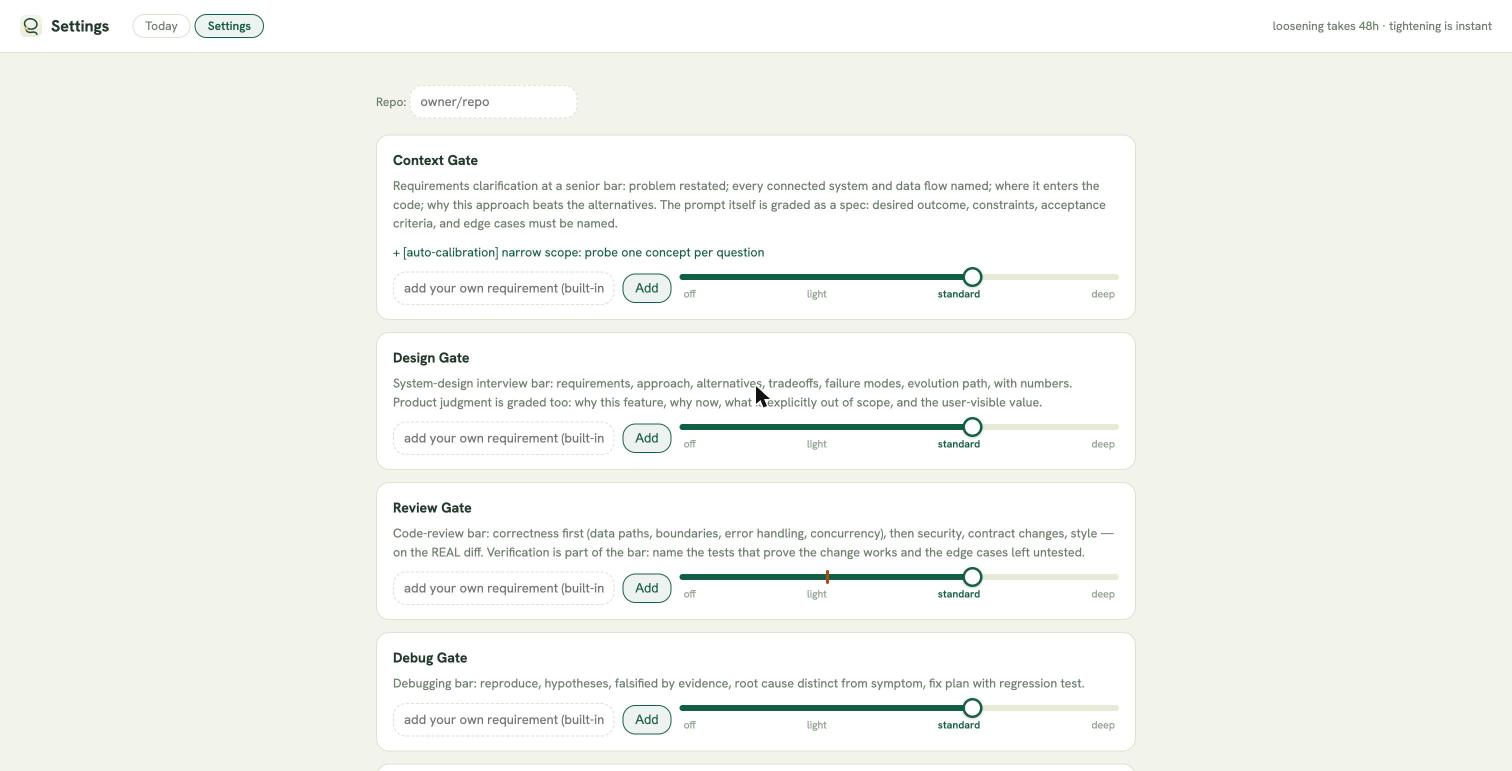
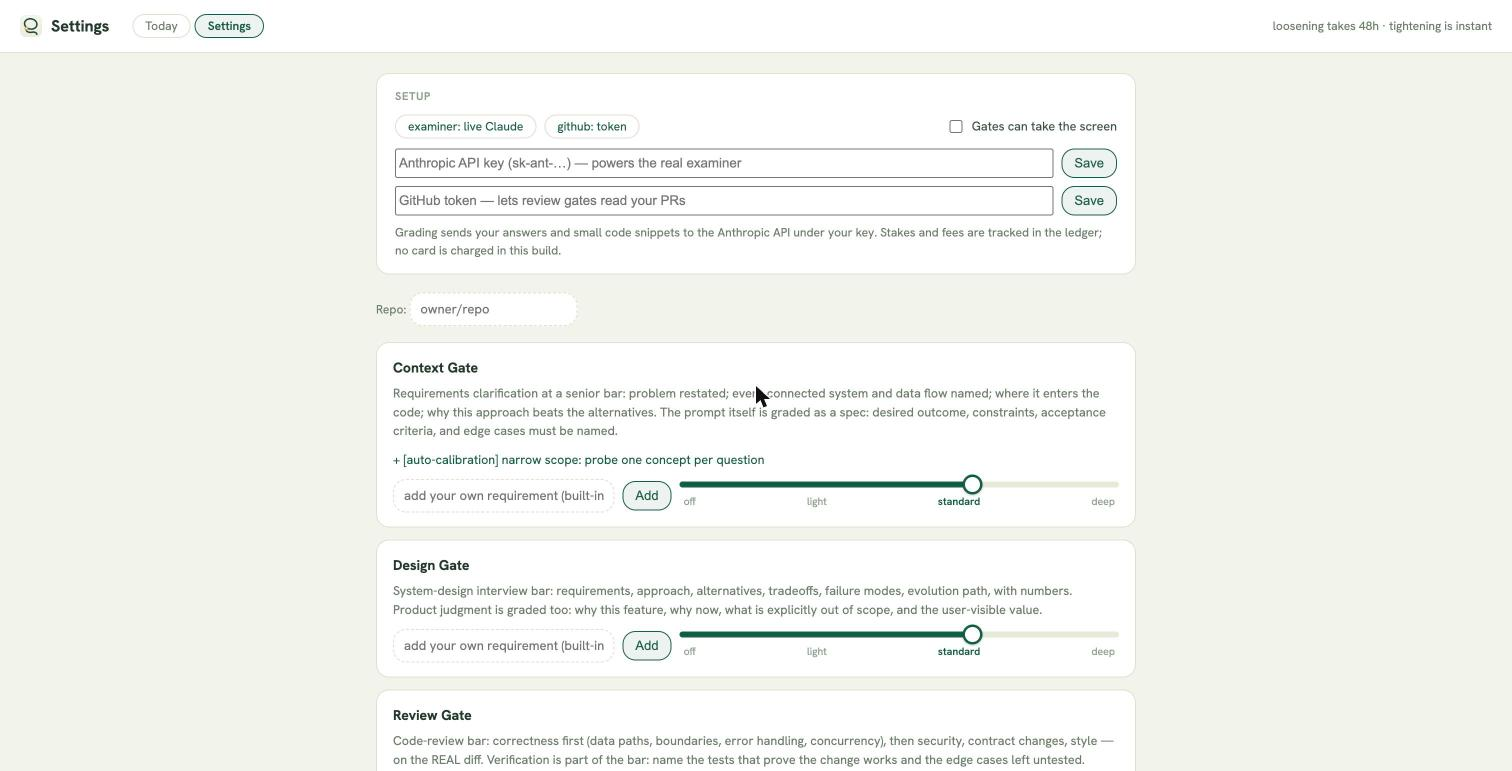
Flow: settings shot now shows the setup card

Changed region(s): [[0.2487, 0.4358, 0.746, 0.9961], [0.2487, 0.1245, 0.746, 0.4047]]

diff --git a/flow.html b/flow.html
@@ -95,7 +95,7 @@
 
   <section class="step">
     <h2><span class="n">10</span>Settings: how strict each gate is</h2>
-    <p>One bar per gate. Tightening applies instantly. Loosening takes 48 hours, so you cannot ease a gate in a weak moment.</p>
+    <p>Setup at the top: your own Anthropic key powers the examiner, your GitHub token powers review gates, and one switch arms or disarms the screen takeover. Below it, one bar per gate, off through deep. Tightening applies instantly. Loosening takes 48 hours, except the first time you configure a gate on a new repo, which applies right away.</p>
     <img class="screen" src="shots/12-settings.jpg" alt="Settings: per-gate rubric cards with difficulty bars">
   </section>
 
